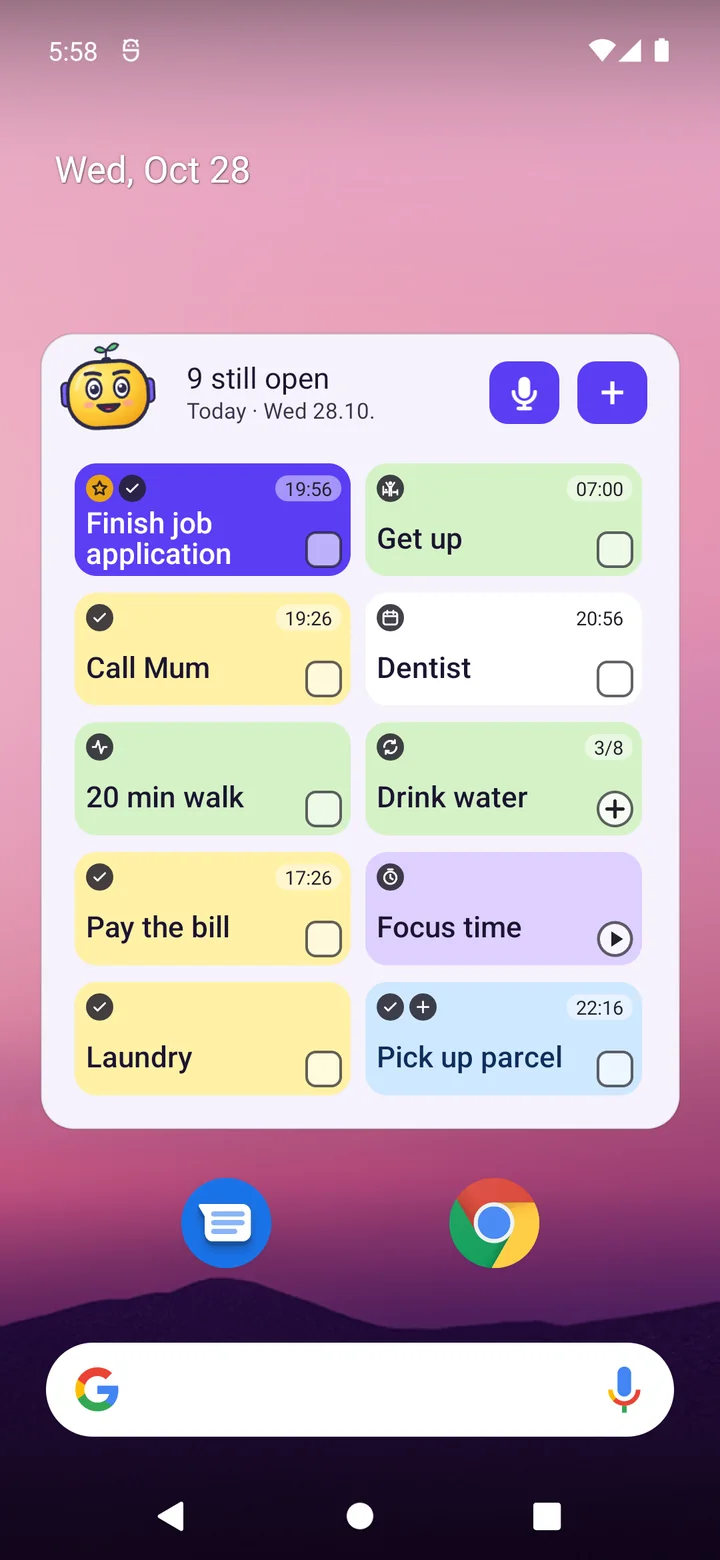
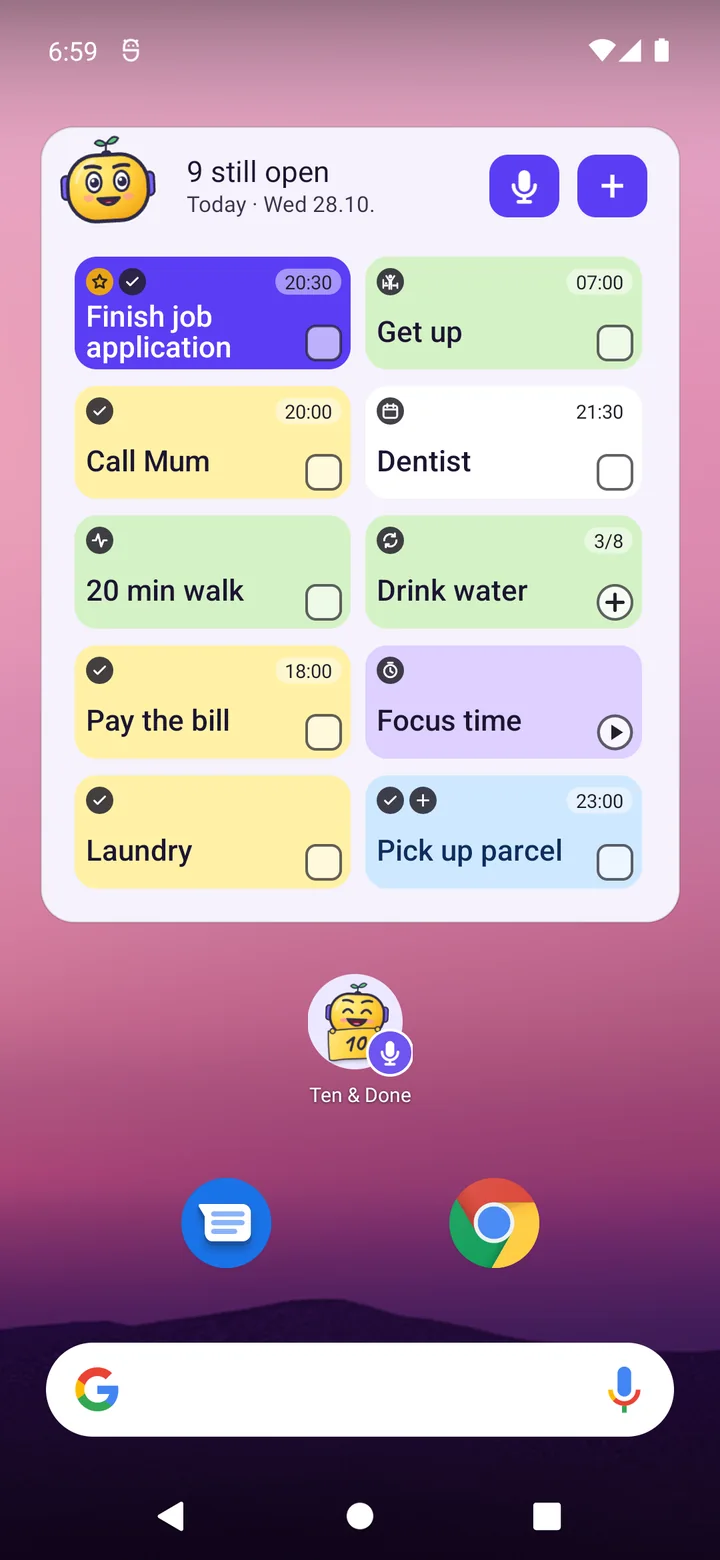
Webseite aktualisiert

diff --git a/en/index.html b/en/index.html
@@ -196,16 +196,12 @@
           <figcaption><h3>Checklist on a note</h3><span>Subtitle and list right on the task. Check off, add, carry over to tomorrow.</span></figcaption>
         </figure>
         <figure>
-          <img src="../img/widget_kork_en.webp" width="720" height="1560" loading="lazy" alt="Android home screen with the board widget in cork style: ten notes with times and check boxes, microphone and plus at the top.">
-          <figcaption><h3>The widget</h3><span>Your daily plan on the home screen, in the style of your board. Check off, count up, start focus time – without opening the app.</span></figcaption>
+          <img src="../img/widget_kork_en.webp" width="720" height="1560" loading="lazy" alt="Android home screen with the board widget in cork style: ten notes with times and check boxes, microphone and plus at the top. Below it the small widget: Tack with a microphone.">
+          <figcaption><h3>The widget</h3><span>Your daily plan on the home screen, in the style of your board. Check off, count up, start focus time – without opening the app. Below it the small widget: Tack with a microphone, the size of an app icon – tap it and start talking.</span></figcaption>
         </figure>
         <figure>
-          <img src="../img/widget_bento_en.webp" width="720" height="1560" loading="lazy" alt="The same widget in Bento style: flat colored tiles, “9 still open” at the top, microphone and plus.">
+          <img src="../img/widget_bento_en.webp" width="720" height="1560" loading="lazy" alt="The same widget in Bento style: flat colored tiles, “9 still open” at the top, microphone and plus. Below it Tack with a microphone.">
           <figcaption><h3>Widget in Bento</h3><span>The widget follows your style. Microphone and ＋ take new tasks right from the home screen.</span></figcaption>
-        </figure>
-        <figure>
-          <img src="../img/widget_klein_en.webp" width="720" height="1560" loading="lazy" alt="Home screen with two smaller widgets: “8 still open” with the next notes at the top, below it the small icon – Tack with a microphone – for speaking a task.">
-          <figcaption><h3>The small widget</h3><span>Tack with a microphone, the size of an app icon: tap it and start talking, without opening the app. Above it the “Open” widget (Premium) – only what’s still left today.</span></figcaption>
         </figure>
         <figure>
           <img src="../img/fenster_en.webp" width="720" height="1560" loading="lazy" alt="Window style: notes stuck on a pane of glass with a view of the mountains, a brick wall around it.">

diff --git a/index.html b/index.html
@@ -207,16 +207,12 @@
           <figcaption><h3>Checkliste am Zettel</h3><span>Untertitel und Liste direkt an der Aufgabe. Abhaken, ergänzen, mitnehmen auf morgen.</span></figcaption>
         </figure>
         <figure>
-          <img src="img/widget_kork.webp" width="720" height="1560" loading="lazy" alt="Startbildschirm eines Android-Handys mit dem Brett-Widget im Kork-Stil: zehn Zettel mit Uhrzeit und Kästchen zum Abhaken, oben Mikrofon und Plus.">
-          <figcaption><h3>Das Widget</h3><span>Dein Tagesplan auf dem Startbildschirm, im Stil deines Bretts. Abhaken, hochzählen, Fokus Zeit starten – ohne die App zu öffnen.</span></figcaption>
+          <img src="img/widget_kork.webp" width="720" height="1560" loading="lazy" alt="Startbildschirm eines Android-Handys mit dem Brett-Widget im Kork-Stil: zehn Zettel mit Uhrzeit und Kästchen zum Abhaken, oben Mikrofon und Plus. Darunter das kleine Widget: Tack mit Mikrofon.">
+          <figcaption><h3>Das Widget</h3><span>Dein Tagesplan auf dem Startbildschirm, im Stil deines Bretts. Abhaken, hochzählen, Fokus Zeit starten – ohne die App zu öffnen. Darunter das kleine Widget: Tack mit Mikrofon, so groß wie ein App-Symbol – antippen und lossprechen.</span></figcaption>
         </figure>
         <figure>
-          <img src="img/widget_bento.webp" width="720" height="1560" loading="lazy" alt="Dasselbe Widget im Stil Bento: flache farbige Kacheln, oben „Noch 9 offen“, Mikrofon und Plus.">
+          <img src="img/widget_bento.webp" width="720" height="1560" loading="lazy" alt="Dasselbe Widget im Stil Bento: flache farbige Kacheln, oben „Noch 9 offen“, Mikrofon und Plus. Darunter Tack mit Mikrofon.">
           <figcaption><h3>Widget in Bento</h3><span>Das Widget folgt deinem Stil. Mikrofon und ＋ nehmen neue Aufgaben gleich vom Startbildschirm auf.</span></figcaption>
-        </figure>
-        <figure>
-          <img src="img/widget_klein.webp" width="720" height="1560" loading="lazy" alt="Startbildschirm mit zwei kleineren Widgets: oben „Noch 8 offen“ mit den nächsten Zetteln, darunter das kleine Symbol – Tack mit Mikrofon – zum Einsprechen.">
-          <figcaption><h3>Das kleine Widget</h3><span>Tack mit Mikrofon, so groß wie ein App-Symbol: antippen und gleich lossprechen, ohne die App zu öffnen. Darüber das Widget „Offen“ (Premium) – nur, was heute noch ansteht.</span></figcaption>
         </figure>
         <figure>
           <picture>
